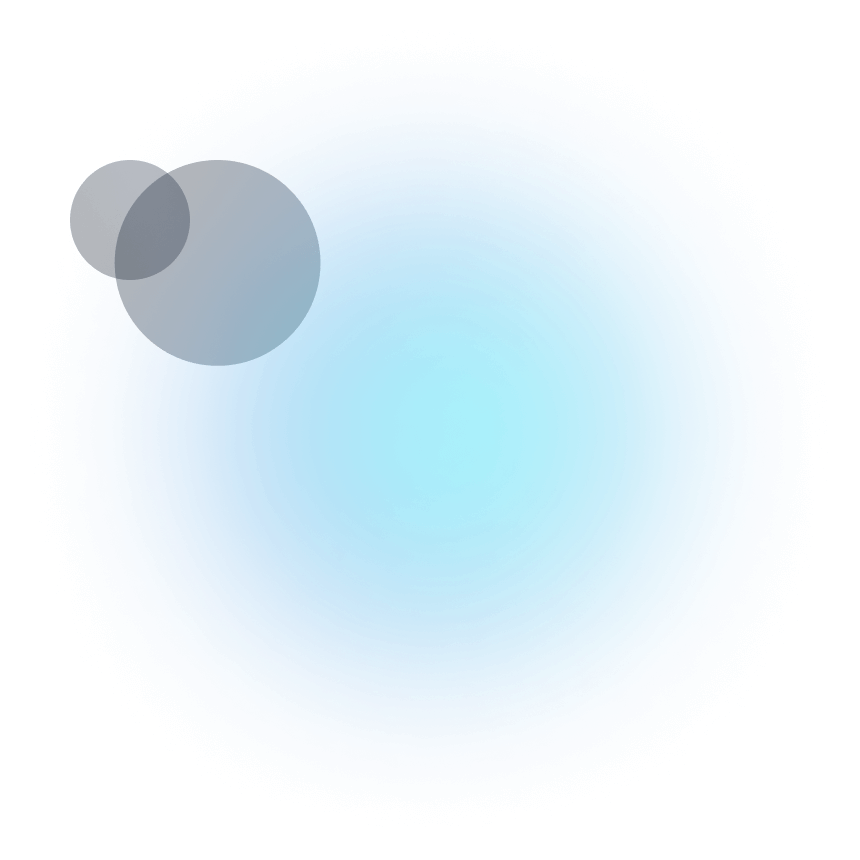
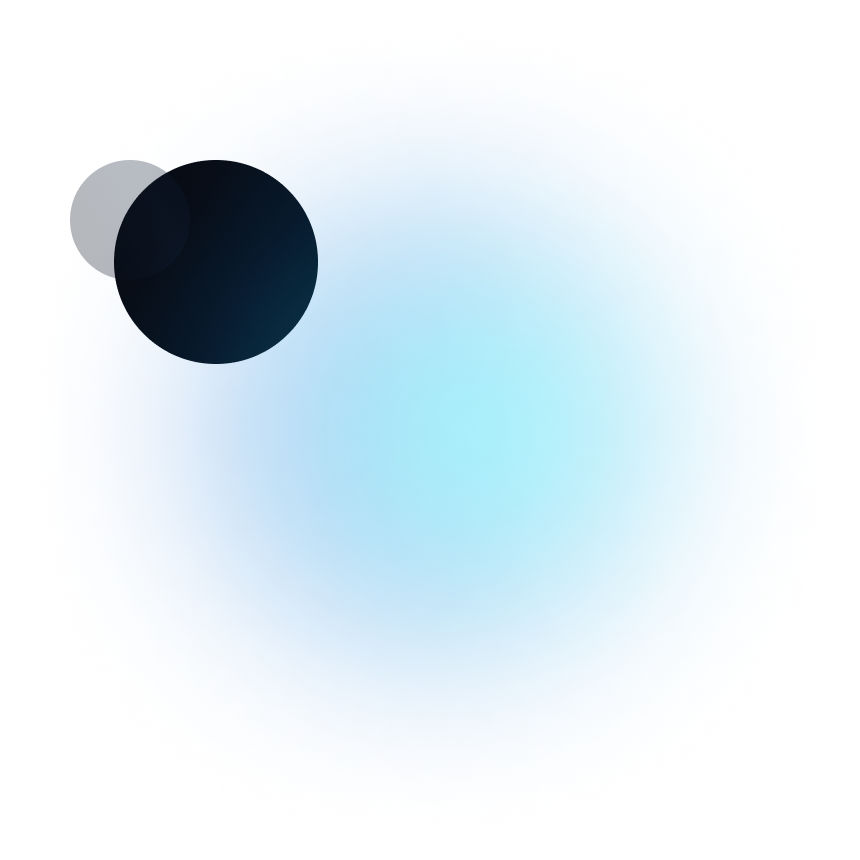
fixiki

Changed region(s): [[0.1209, 0.1814, 0.393, 0.4233]]

diff --git a/wp-content/themes/bato-website/scss/main/_animation.scss b/wp-content/themes/bato-website/scss/main/_animation.scss
@@ -301,7 +301,7 @@ header.inited {
     @include media-laptop {
       top: -60%;
       bottom: 0;
-      right: 35%;
+      right: 38%;
       left: auto;
     }
 
@@ -672,22 +672,18 @@ header.inited {
 
   .section-team__items-wrapp {
     width: calc(25% - 20px);
-    height: var(--cube-width);
-    margin: 0 10px 20px;
+    aspect-ratio: 1/1;
 
     @include media-tablet {
       width: calc(33.33% - 20px);
-      margin: 0 10px 20px;
     }
 
     @include media-955 {
       width: calc(50% - 30px);
-      margin: 0 10px 20px;
     }
 
     @include media-mobile {
       width: calc(50% - 15px);
-      margin: 0 5px 10px;
     }
   }
 

diff --git a/wp-content/themes/bato-website/scss/sections/_map.scss b/wp-content/themes/bato-website/scss/sections/_map.scss
@@ -26,14 +26,28 @@
             top: 28%;
 
             @include media-tablet {
+                right: 13%;
+                top: 22%;
+            }
+
+            @include media-mobile {
                 right: 16%;
                 top: 35%;
             }
         }
 
         @include media-tablet {
+            left: 14.2%;
+            top: 29%;
+        }
+
+        @include media-mobile {
             left: 19.2%;
             top: 42%;
+        }
+
+        .pin__icon {
+            background: none;
         }
     }
 }

diff --git a/wp-content/themes/bato-website/scss/sections/_projects-hero.scss b/wp-content/themes/bato-website/scss/sections/_projects-hero.scss
@@ -2,13 +2,13 @@
   padding: 138px 0 100px 0;
 
   @include media-laptop {
-    padding: 100px 0 85px;
+    padding: 100px;
   }
 
   &__content {
     max-width: 820px;
     width: 100%;
-    margin: 0 auto 50px;
+    margin: 0 auto;
 
     @include media-mobile {
       margin-bottom: 0;

diff --git a/wp-content/themes/bato-website/scss/sections/_projects.scss b/wp-content/themes/bato-website/scss/sections/_projects.scss
@@ -1,5 +1,5 @@
 .section-projects {
-  padding: 15px 0 100px;
+  padding: 100px 0;
 
   @include media-laptop {
     padding: 15px 0 50px;
@@ -44,6 +44,7 @@
     }
 
     &-image-inner {
+      display: block;
       position: relative;
       height: 100%;
       z-index: 1;

diff --git a/wp-content/themes/bato-website/scss/pages/_about.scss b/wp-content/themes/bato-website/scss/pages/_about.scss
@@ -1175,7 +1175,7 @@
 }
 
 .section-about-reviews + .section-about-ready {
-  padding-top: 150px;
+  padding-top: 200px;
 
   @include media-laptop {
     padding-top: 100px;

diff --git a/wp-content/themes/bato-website/scss/sections/_team.scss b/wp-content/themes/bato-website/scss/sections/_team.scss
@@ -30,6 +30,7 @@
     display: flex;
     flex-wrap: wrap;
     justify-content: center;
+    gap: 20px;
 
     @include media-mobile-horizontal {
       gap: 10px;

diff --git a/wp-content/themes/bato-website/scss/sections/_contact.scss b/wp-content/themes/bato-website/scss/sections/_contact.scss
@@ -1,5 +1,5 @@
 .section-contact {
-  padding: 60px 0 95px;
+  padding: 100px 0;
 
   @include media-mobile {
     padding: 100px 0 50px;

diff --git a/wp-content/themes/bato-website/scss/sections/_numbers.scss b/wp-content/themes/bato-website/scss/sections/_numbers.scss
@@ -1,5 +1,5 @@
 .section-numbers {
-  padding: 70px 0;
+  padding: 100px 0;
 
   @include media-laptop {
     padding: 50px 0;

diff --git a/wp-content/themes/bato-website/sections/team.php b/wp-content/themes/bato-website/sections/team.php
@@ -11,45 +11,41 @@
             <div class="section-team__nav">
                 <h2 class="title_basic title"><?php echo $team_title ?></h2>
             </div>
-            <div class="swiper-about-team">
 
-                <div class="section-team__items">
+            <div class="section-team__items">
+                <?php foreach ($team_items as $key => $item) : ?>
+                    <?php
+                        foreach ($item as $item_key => $item_value) {
+                            ${"item_$item_key"} = $item_value;
+                        }
+                    ?>
 
-                    <?php foreach ($team_items as $key => $item) : ?>
-                        <?php
-                            foreach ($item as $item_key => $item_value) {
-                                ${"item_$item_key"} = $item_value;
-                            }
-                        ?>
-
-                        <div class="section-team__items-wrapp item-photo item-photo-<?php echo $key ?>">
-                            <div class="container">
-                                <div class="viewport">
-                                    <div class="cube">
-                                        <div class="cube-item front-cube">
-                                            <div class="front-cube-inner">
-                                                <div class="front-cube-content">
-                                                    <div class="section-team__card-team-description">
-                                                        <?php insertTitle($item_team_name, 'section-team__card-team-name', 'span') ?>
-                                                        <?php insertTitle($item_team_position, 'section-team__card-team-position', 'span') ?>
-                                                    </div>
+                    <div class="section-team__items-wrapp item-photo item-photo-<?php echo $key ?>">
+                        <div class="container">
+                            <div class="viewport">
+                                <div class="cube">
+                                    <div class="cube-item front-cube">
+                                        <div class="front-cube-inner">
+                                            <div class="front-cube-content">
+                                                <div class="section-team__card-team-description">
+                                                    <?php insertTitle($item_team_name, 'section-team__card-team-name', 'span') ?>
+                                                    <?php insertTitle($item_team_position, 'section-team__card-team-position', 'span') ?>
                                                 </div>
                                             </div>
                                         </div>
-                                        <div class="cube-item bottom-cube">
-                                            <div class="photo-cube-inner">
-                                                <div class="photo-cube-img-wrapp">
-                                                    <?php insertImage($item_team_image) ?>
-                                                </div>
+                                    </div>
+                                    <div class="cube-item bottom-cube">
+                                        <div class="photo-cube-inner">
+                                            <div class="photo-cube-img-wrapp">
+                                                <?php insertImage($item_team_image) ?>
                                             </div>
                                         </div>
                                     </div>
                                 </div>
                             </div>
                         </div>
-                    <?php endforeach ?>
-
-                </div>
+                    </div>
+                <?php endforeach ?>
             </div>
         </div>
     </div>

diff --git a/wp-content/themes/bato-website/about.php b/wp-content/themes/bato-website/about.php
@@ -6,7 +6,7 @@ get_header();
 ?>
 
 <div class="about-decorative-page">
-    <?php insertImage('effect-about.png', '', 0) ?>
+    <?php insertImage('about-home-effect.png', '', 0) ?>
 </div>
 
 <main id="primary" class="site-main">
